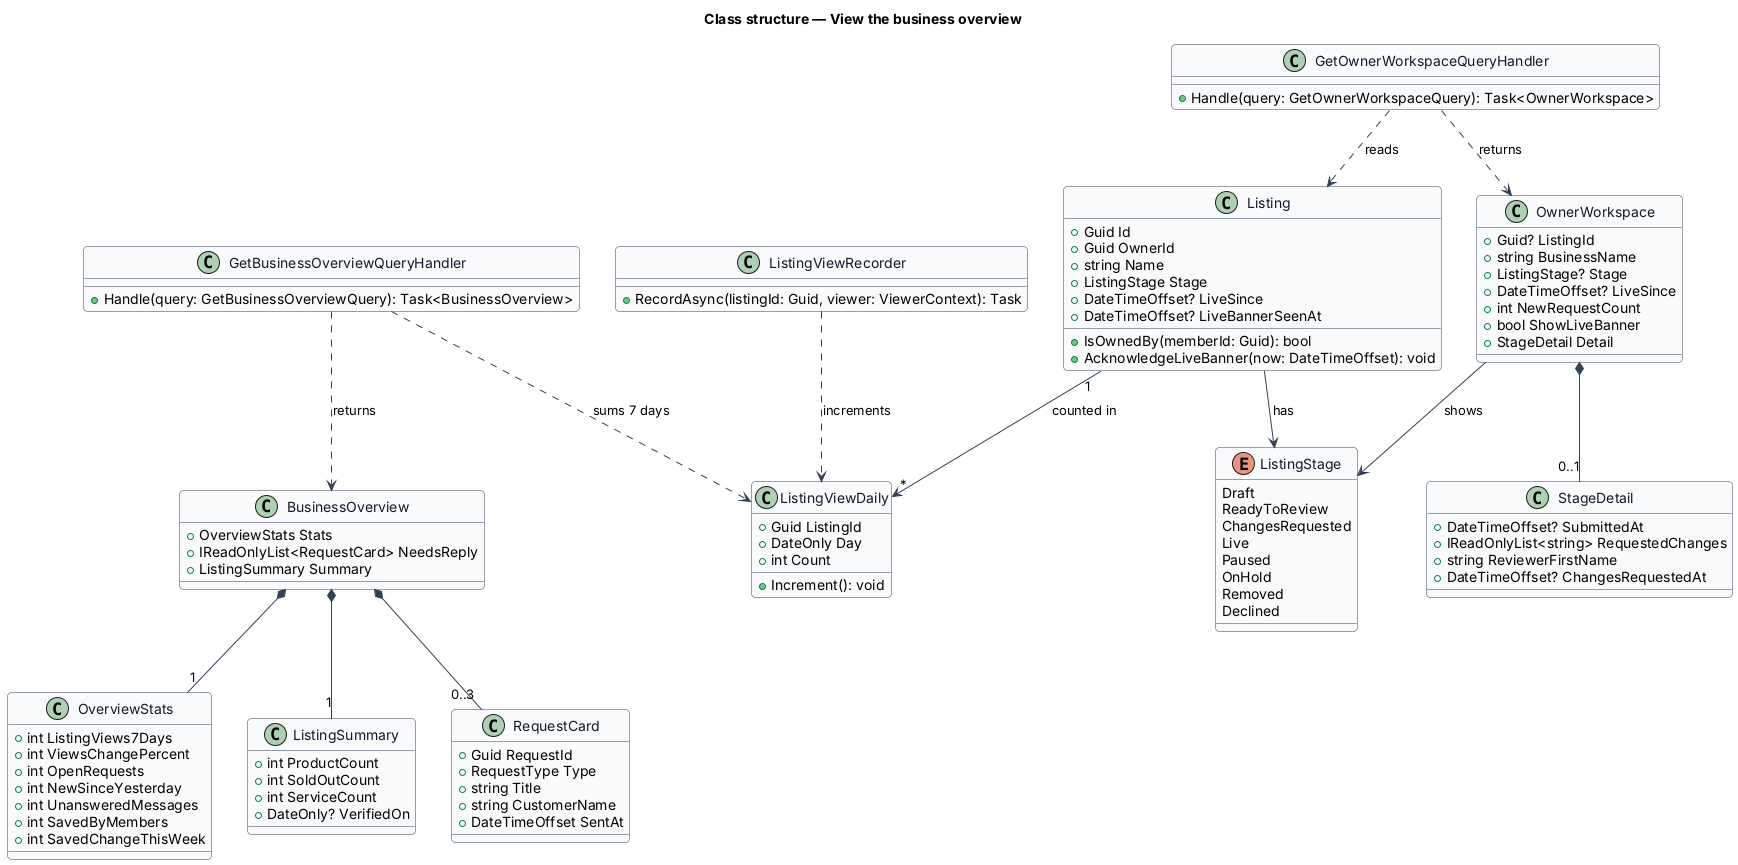
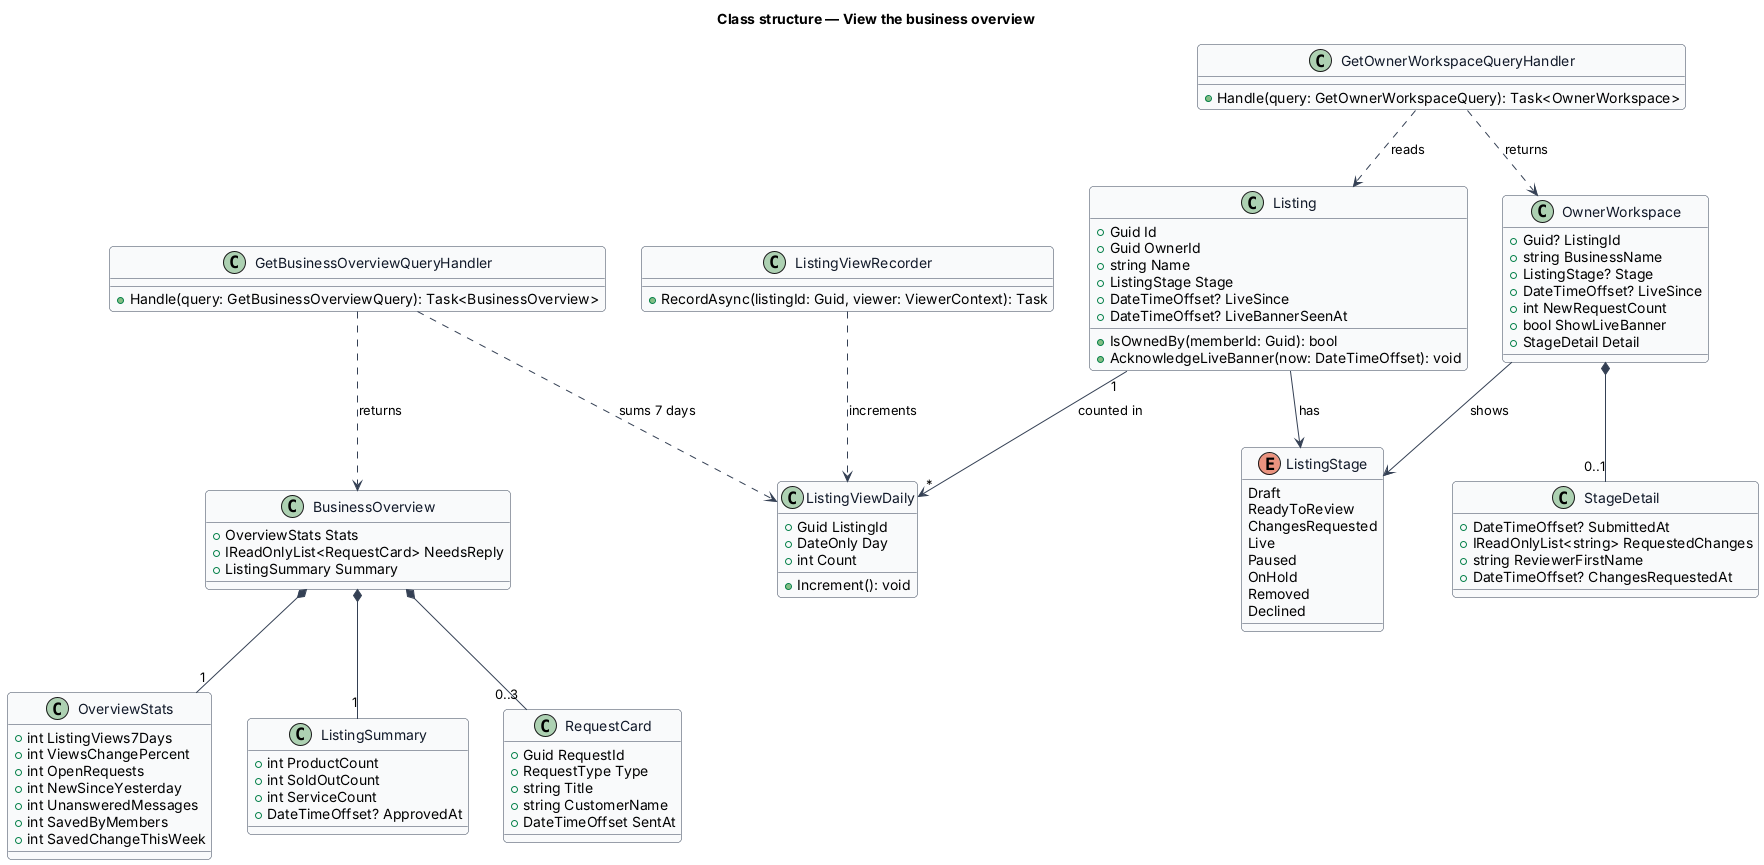
Name ApprovedAt as the source of the verified date in the designs
Claude-Session: https://claude.ai/code/session_01GLzf8rTSMgYvM2XfDScRux

diff --git a/docs/adr/0020-verification-decisions.md b/docs/adr/0020-verification-decisions.md
@@ -1,6 +1,6 @@
 # 0020. Verification decisions
 
-Status: accepted; "Who is on the team" and the deferral of L2-098 AC2 superseded by [0040](0040-separate-admin-application.md). Amended by ADR 0041, 12 November 2026: the church reference is removed. The stages `waiting-on-reference` and `needs-a-decision` are gone, the checklist has three items, the change area `reference` is gone, a resubmitted listing always returns to Ready to review, a decline is made from Ready to review, and the reference privacy and retention rules (`reference.viewed`, `ReferenceRetentionJob`) have nothing left to act on. `Listing.ReferenceConfirmedOn` is renamed `VerifiedOn`. The rest stands.
+Status: accepted; "Who is on the team" and the deferral of L2-098 AC2 superseded by [0040](0040-separate-admin-application.md). Amended by ADR 0041, 12 November 2026: the church reference is removed. The stages `waiting-on-reference` and `needs-a-decision` are gone, the checklist has three items, the change area `reference` is gone, a resubmitted listing always returns to Ready to review, a decline is made from Ready to review, and the reference privacy and retention rules (`reference.viewed`, `ReferenceRetentionJob`) have nothing left to act on. `Listing.ReferenceConfirmedOn` is dropped; `Listing.ApprovedAt` says when a listing was verified. The rest stands.
 
 ## Context
 

diff --git a/docs/detailed-designs/verification/review-and-approve-listing/README.md b/docs/detailed-designs/verification/review-and-approve-listing/README.md
@@ -62,7 +62,7 @@ The feature is a vertical slice from the review page to the database, with
   state, and writes a `ListingApproved` `OutboxMessage`, all in one unit of
   work.
 - **`Listing.Approve`** — domain method. It accepts the stage "Ready to review",
-  sets `Stage` to `Live`, `Verified` to true and `VerifiedOn` to the date, and
+  sets `Stage` to `Live`, `Verified` to true and `ApprovedAt` to the time, and
   records a `VerificationDecision`. A listing in "Changes requested" or one
   that already carries a decision for the current submission is refused; the
   handler maps the refusal and a stale `RowVersion` to HTTP 409.

diff --git a/docs/detailed-designs/owner-workspace/view-business-overview/README.md b/docs/detailed-designs/owner-workspace/view-business-overview/README.md
@@ -67,7 +67,7 @@ read models in the `Jubilee database`.
   build the `BusinessOverview`: the four statistics, up to 3 `new` requests for
   "Needs your reply", and the "Your listing" summary (for example "4 products ·
   1 sold out", the service count, and the verification status "Verified Jun 2026", read from
-  `Listing.VerifiedOn`).
+  `Listing.ApprovedAt`).
 - **`OverviewStats`** — value object with `ListingViews7Days` and its change on
   the previous 7 days, `OpenRequests` and `NewSinceYesterday`,
   `UnansweredMessages`, and `SavedByMembers` with its weekly change.
